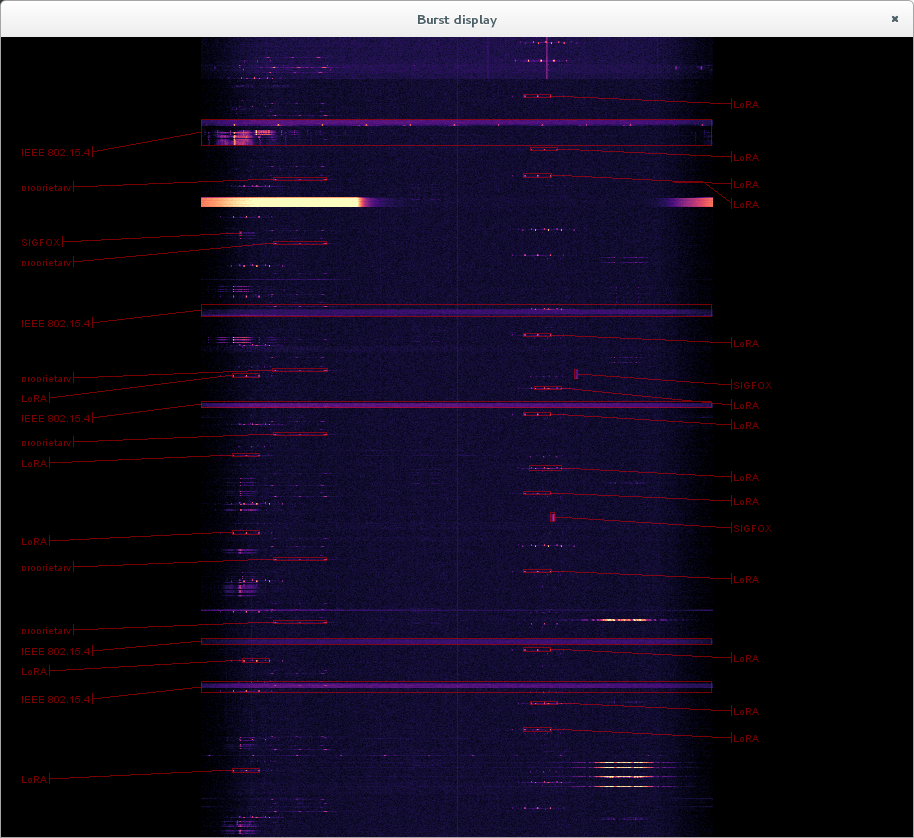
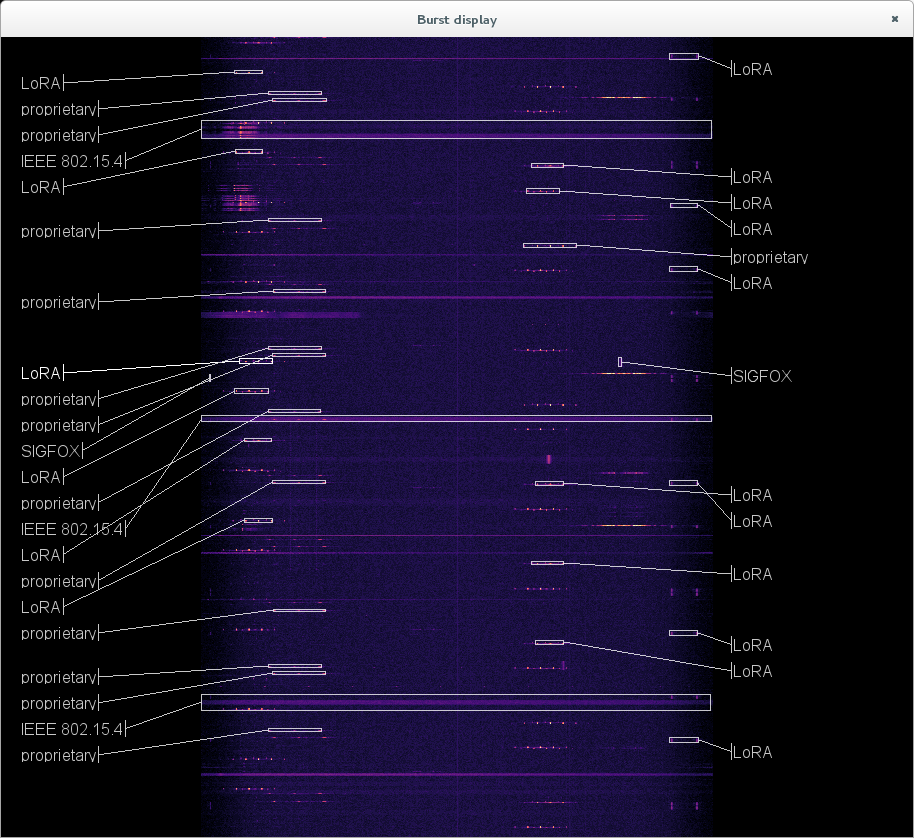
Larger, more readable fonts in bdisplay.

Changed region(s): [[0.1225, 0.031, 0.8578, 1.0], [0.0306, 0.4344, 0.1838, 0.9308], [0.0306, 0.0931, 0.1532, 0.4033]]

diff --git a/node-red-burst-tagging/sfnr/nodes/bdisplay.py b/node-red-burst-tagging/sfnr/nodes/bdisplay.py
@@ -71,7 +71,7 @@ class InfoBlock2(object):
 
 
 class InfoBlock(object):
-	LINE_HEIGHT = 10
+	LINE_HEIGHT = 16
 	def __init__(self, text, font, color):
 
 		lines = text.split('\n')
@@ -149,7 +149,7 @@ sfnr bdisplay
 		pygame.display.init()
 		pygame.font.init()
 
-		self.font = pygame.font.SysFont("sans", 10)
+		self.font = pygame.font.SysFont("sans", 16)
 
 		self.margin = 200
 
@@ -197,10 +197,10 @@ sfnr bdisplay
 
 	def add_burst(self, burst):
 		if burst['bold']:
-			color = (255, 0, 0, 200)
+			color = (255, 255, 255, 255)
 			prio = 0
 		else:
-			color = (255, 0, 0, 120)
+			color = (255, 255, 255, 200)
 			prio = 1
 
 		def gety(t):
